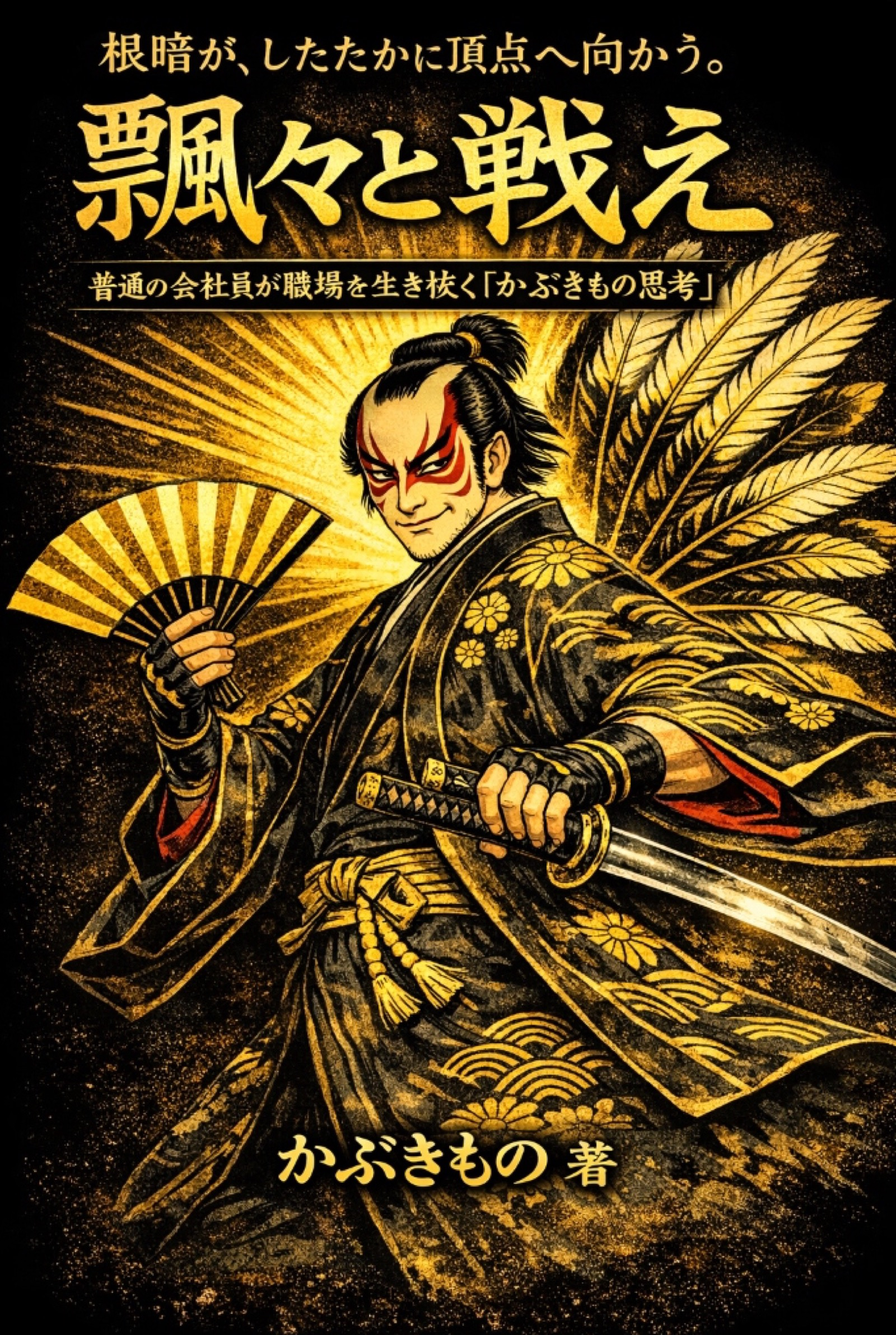
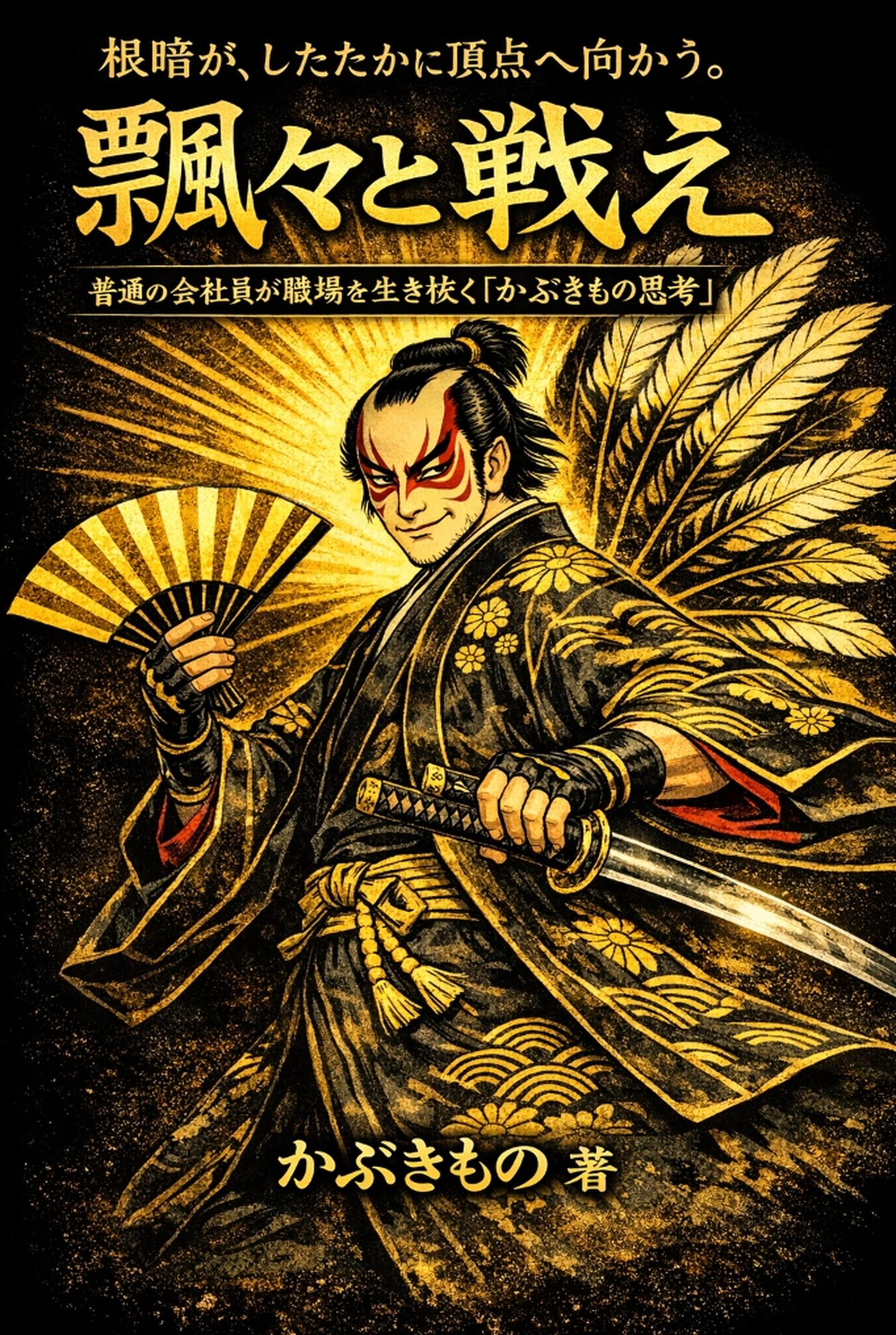
fix: Crop Book 2 cover from top edge to keep main text copy and bump cashbuster to ?v=3

diff --git a/index.html b/index.html
@@ -135,7 +135,7 @@
                     <!-- Book 1 -->
                     <div class="showcase-card">
                         <div class="book-cover-wrap">
-                            <img src="books/hyohyo-to-ikiro/book_cover.jpg?v=2" alt="飄々と生きろ 表紙" class="book-cover" loading="lazy">
+                            <img src="books/hyohyo-to-ikiro/book_cover.jpg?v=3" alt="飄々と生きろ 表紙" class="book-cover" loading="lazy">
                         </div>
                         <div class="book-info">
                             <span class="badge badge-active">第1弾 好評発売中</span>
@@ -151,7 +151,7 @@
                     <!-- Book 2 -->
                     <div class="showcase-card">
                         <div class="book-cover-wrap">
-                            <img src="books/hyohyo-to-tatakae/book_cover.jpg?v=2" alt="飄々と戦え 表紙" class="book-cover" loading="lazy">
+                            <img src="books/hyohyo-to-tatakae/book_cover.jpg?v=3" alt="飄々と戦え 表紙" class="book-cover" loading="lazy">
                         </div>
                         <div class="book-info">
                             <span class="badge badge-active">第2弾 好評発売中</span>

diff --git a/books/hyohyo-to-ikiro/index.html b/books/hyohyo-to-ikiro/index.html
@@ -70,7 +70,7 @@
     <section class="hero-container">
         <div class="hero-grid">
             <div class="hero-visual">
-                <img src="book_cover.jpg?v=2" alt="飄々と生きろ 書影" class="hero-cover-img">
+                <img src="book_cover.jpg?v=3" alt="飄々と生きろ 書影" class="hero-cover-img">
             </div>
             <div class="hero-text-block">
                 <span class="series-badge">かぶきもの思考 シリーズ第1弾</span>

diff --git a/books/hyohyo-to-tatakae/index.html b/books/hyohyo-to-tatakae/index.html
@@ -69,7 +69,7 @@
     <section class="hero-container">
         <div class="hero-grid">
             <div class="hero-visual">
-                <img src="book_cover.jpg?v=2" alt="飄々と戦え 表紙" class="hero-cover-img">
+                <img src="book_cover.jpg?v=3" alt="飄々と戦え 表紙" class="hero-cover-img">
             </div>
             <div class="hero-text-block">
                 <span class="series-badge">かぶきもの思考 シリーズ第2弾</span>
